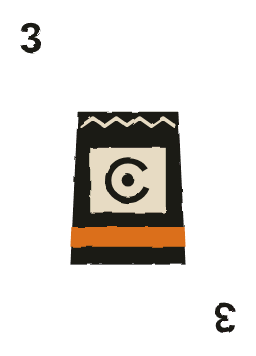
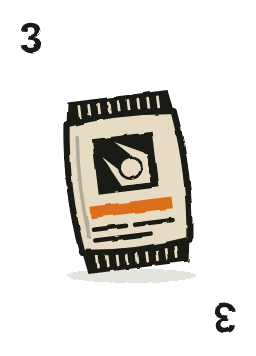
The card table's deck: the ration card redrawn as the dispenser's sealed pouch
The owner: "it looks like a taco bell bag". The 3 is now a crimped pouch with the Combine's emblem on
its label. Only 3.png changed in what players see.

Claude-Session: https://claude.ai/code/session_01Y8SXQkYrUC2vSdmFZKTNua

Changed region(s): [[0.2188, 0.2472, 0.7812, 0.8034]]

diff --git a/_dev/posters/cards.js b/_dev/posters/cards.js
@@ -30,10 +30,15 @@ const ART = {
     `<rect x="-38" y="-20" width="76" height="40" fill="${O}"/>` + f('M38,-50 L20,-32 L38,-12 Z', P) +
     `<ellipse cx="0" cy="-62" rx="38" ry="10" fill="${P}" stroke="${K}" stroke-width="6"/><ellipse cx="4" cy="-62" rx="10" ry="3.5" fill="${K}"/>` +
     s('M-26,34 L-26,52', 5, P, 'opacity=".5"') + '</g>',
-  // a ration packet
-  3: () => f('M-56,-78 L56,-78 L64,92 L-64,92 Z') + s('M-52,-62 l13,-9 l13,9 l13,-9 l13,9 l13,-9 l13,9 l13,-9 l13,9', 4, P) +
-    `<rect x="-42" y="-38" width="84" height="72" fill="${P}"/>` + `<circle cx="0" cy="-2" r="22" fill="none" stroke="${K}" stroke-width="7"/>` +
-    f('M0,-2 L30,-20 L30,10 Z', P) + c(0, -2, 7) + f('M-63,50 L63,50 L64,72 L-64,72 Z', O),
+  // a ration packet: the sealed pouch from the dispenser, crimped at both ends, the Combine's emblem on its label
+  3: () => `<ellipse cx="4" cy="104" rx="72" ry="8" fill="${K}" opacity=".22"/><g transform="rotate(-7)">` +
+    f('M-56,-96 L56,-96 L60,-72 L-60,-72 Z') + f('M-60,72 L60,72 L56,96 L-56,96 Z') +
+    s('M-44,-90 l0,12 M-33,-90 l0,12 M-22,-90 l0,12 M-11,-90 l0,12 M0,-90 l0,12 M11,-90 l0,12 M22,-90 l0,12 M33,-90 l0,12 M44,-90 l0,12', 3, P) +
+    s('M-44,78 l0,12 M-33,78 l0,12 M-22,78 l0,12 M-11,78 l0,12 M0,78 l0,12 M11,78 l0,12 M22,78 l0,12 M33,78 l0,12 M44,78 l0,12', 3, P) +
+    `<path d="M-60,-72 Q0,-80 60,-72 Q70,0 60,72 Q0,80 -60,72 Q-70,0 -60,-72 Z" fill="${P}" stroke="${K}" stroke-width="7" stroke-linejoin="round"/>` +
+    `<rect x="-34" y="-52" width="68" height="62" fill="${K}"/><g transform="translate(0,-21) scale(.44)">${SUITS[1].mark(P)}</g>` +
+    `<rect x="-46" y="22" width="92" height="13" fill="${O}"/>` + s('M-44,48 L-8,48 M2,48 L44,48 M-44,60 L18,60', 5) +
+    s('M-50,-56 Q-56,0 -50,56', 4, K, 'opacity=".25"') + '</g>',
   // a headcrab
   4: () => mirror(s('M-50,-10 Q-92,-22 -100,34', 12) + s('M-42,18 Q-74,34 -70,90', 14) + s('M-70,90 l-10,10', 7) + s('M-100,34 l-8,10', 7)) +
     f('M-64,12 Q-68,-48 0,-56 Q68,-48 64,12 Q40,38 0,34 Q-40,38 -64,12 Z') + s('M-36,-32 Q0,-48 36,-32', 5, P, 'opacity=".45"') +

diff --git a/docs/features/resistance-money.md b/docs/features/resistance-money.md
@@ -58,7 +58,7 @@ The owner: "A back-room card game on rebel ground, with the house cut going to t
 - **A fixture**, "Fixture: card table" (point kind `cardtable`, entity `lc_cardtable`), for a back room on rebel ground. **Off rebel ground it does nothing.** Units, soldiers, the Administrator and the infested don't play.
 - **Four seats. E on the table sits you down** and opens one small window, "High card". **Closing the window, or walking off (160 units from the table), stands you up**, as do dying or becoming a unit. With four players seated, E shows the table as it is without a seat.
 - **Empty seats are filled by the Resistance's own people** (no models: plain names from the city's name list in the window), so a lone player has three to play against and two players have two. A player sitting down takes the seat of one of them; a player standing up gives it back. When the last player stands, they go and the table is empty.
-- **The deck (19 November, the owner: "can you make the cards (images/graphics)? Would be funny if they could be themed to the gamemode and HL2"):** the window shows the four seats side by side, each card a picture from the Resistance's own hand-made deck, the name under it: 2 the can, 3 a ration, 4 a headcrab, 5 a manhack, 6 a barnacle (with a boot), 7 a scanner, 8 Civil Protection, 9 an Overwatch Elite, 10 a strider, J a vortigaunt, Q the Administrator on her screen, K the Colonel, A the Free Man; a seat with no card shows the back (the lambda sprayed on a ration box). **Four suits, as layers** (the owner: "remove the lambda from the cards so they are all suite neutral ... one set of cards and 4 images: one for each suite"): a face is ink alone on nothing (`2.png` to `14.png`), and the card under it is its suit's (`suit1.png` the Resistance, `suit2.png` the Combine, `suit3.png` the Union, `suit4.png` the vortigaunts: the paper's tint, a line, the suit's mark under each rank and faint in the middle); the window lays the face over the suit. A suit decides nothing in either game: it is only which of the four cards of a rank it is. All eighteen pictures (with `back.png`; 256 x 356, about 250 KB together, made by `_dev/posters/cards.js` then `cards_shrink.py`) are in `materials/livingcity/cards/`, loose in the server's `garrysmod/` (`livingcity_content.zip`), sent to players at map start; **without them the cards are drawn plainly, as before**.
+- **The deck (19 November, the owner: "can you make the cards (images/graphics)? Would be funny if they could be themed to the gamemode and HL2"):** the window shows the four seats side by side, each card a picture from the Resistance's own hand-made deck, the name under it: 2 the can, 3 a ration packet (a sealed pouch with the Combine emblem), 4 a headcrab, 5 a manhack, 6 a barnacle (with a boot), 7 a scanner, 8 Civil Protection, 9 an Overwatch Elite, 10 a strider, J a vortigaunt, Q the Administrator on her screen, K the Colonel, A the Free Man; a seat with no card shows the back (the lambda sprayed on a ration box). **Four suits, as layers** (the owner: "remove the lambda from the cards so they are all suite neutral ... one set of cards and 4 images: one for each suite"): a face is ink alone on nothing (`2.png` to `14.png`), and the card under it is its suit's (`suit1.png` the Resistance, `suit2.png` the Combine, `suit3.png` the Union, `suit4.png` the vortigaunts: the paper's tint, a line, the suit's mark under each rank and faint in the middle); the window lays the face over the suit. A suit decides nothing in either game: it is only which of the four cards of a rank it is. All eighteen pictures (with `back.png`; 256 x 356, about 250 KB together, made by `_dev/posters/cards.js` then `cards_shrink.py`) are in `materials/livingcity/cards/`, loose in the server's `garrysmod/` (`livingcity_content.zip`), sent to players at map start; **without them the cards are drawn plainly, as before**.
 - **Two games (19 November, the owner: "can we have a few more simple card games"; of four offered they picked Twenty-one, with "Same pot as high card"):** whoever sat first picks the game between hands, with two buttons, "High card" and "Twenty-one" (the window's title is the game; everyone else reads it there). **Twenty-one:** Deal takes the stakes exactly as in high card (the same pot, the same 70 per cent, the same limit of hands an hour) and gives everyone two cards; you see your own, fanned, with what they are worth under your name (2 to 10 their number; the vortigaunt, the Administrator and the Colonel 10; the Free Man 11 or 1), and the others' face down. **Card** takes one, **Stay** ends your part, where Deal was; 21, over 21 or five cards ends it too. Everyone plays at once and has 20 seconds (a thin bar runs down; out of time you stay). The Resistance's own people take a card below 16. Then every hand is turned up: **the nearest to 21 without passing it takes 70 per cent of the pot (a tie splits it), the fund the rest; with everyone over 21 the fund takes the whole pot.** Standing up during a hand leaves your stake in it (the table emptied, the pot is the fund's); nobody sits down, and the stake and the game can't change, while a hand is on. Nothing in the chat.
 - **The stake:** one for everyone at the table, 5, 10 or 25, picked by whoever sat first (three buttons, one they can't cover greyed out; they may change it between hands). If they stand, the player seated longest picks it. **It stays until the table is empty.** No hand before it is picked.
 - **A hand:** any seated player presses Deal (one hand every 4 seconds at a table). Everyone seated puts the stake into the pot; a player who can't is stood up first, with nothing in the chat (their window says "Short of the stake"; nobody else is told). **The Resistance's own people put in 5 at most, whatever the stake** (their own money, from the city, as when the city's people buy things). One card each from a fresh deck; **the highest card takes 70 per cent of the pot, rounded down; the rest goes to the fund** ("The card table's cut" on the fund's record). **A tie splits the 70 per cent** among the tied, and what does not divide goes to the fund. What one of the city's people wins goes home with them.
